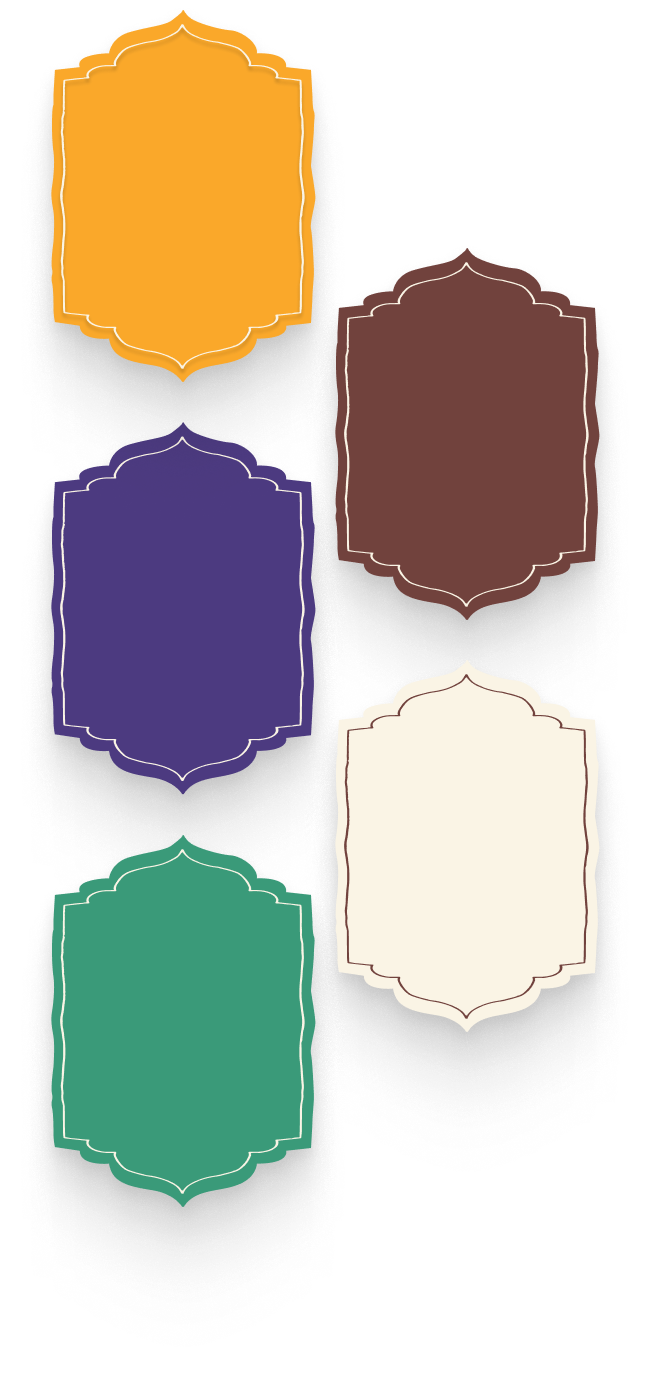
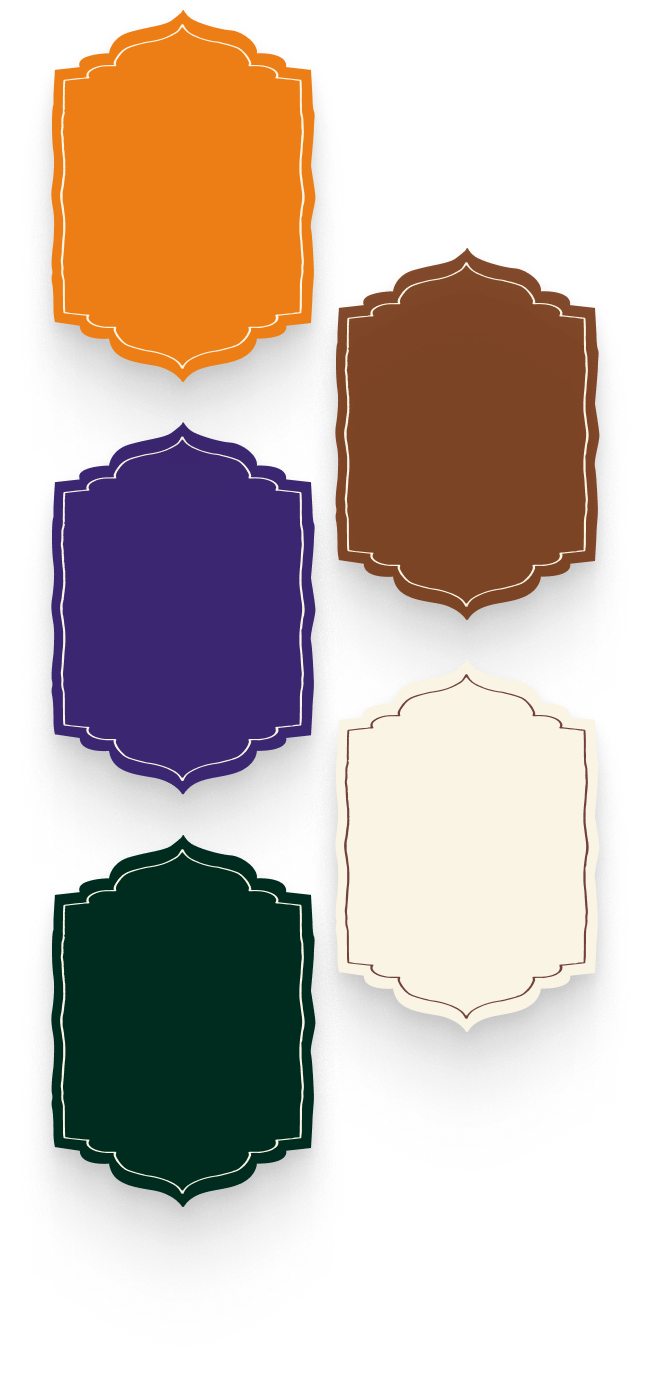
footer spacing fix

diff --git a/src/components/Footer/Footer.css b/src/components/Footer/Footer.css
@@ -297,6 +297,18 @@ width: 100%;
     gap: 30px;
   }
 
+.footer-bottom-content {
+width: 100%;
+    padding: 0 20px;
+    display: flex;
+    justify-content: center;
+    /* flex-direction: column; */
+    align-items: center;
+    flex-wrap: wrap;
+    gap: 4.80px;
+}
+
+
   .contact-col {
     grid-column: span 2;
     /* Contact takes full width */
@@ -336,6 +348,18 @@ width: 100%;
     height: 60px;
     /* Scaled down significantly for mobile */
   }
+
+.footer-bottom-content {
+width: 100%;
+    padding: 0 20px;
+    display: flex;
+    justify-content: center;
+    /* flex-direction: column; */
+    align-items: center;
+    flex-wrap: wrap;
+    gap: 4.80px;
+}
+
 
   .footer-krishna-bg {
     width: 250px;

diff --git a/src/pages/AboutPage/AboutPage.css b/src/pages/AboutPage/AboutPage.css
@@ -753,6 +753,7 @@
 
 @media (max-width: 768px) {
   .alignment-content {
+    padding: 0px 19px;
     position: relative;
     flex-direction: column;
     align-items: center;
@@ -813,7 +814,7 @@
 
   .alignment-character-left {
     position: absolute;
-    left: -20px;
+    left: 0px;
     top: 50%;
     transform: translateY(-50%);
     height: 220px;